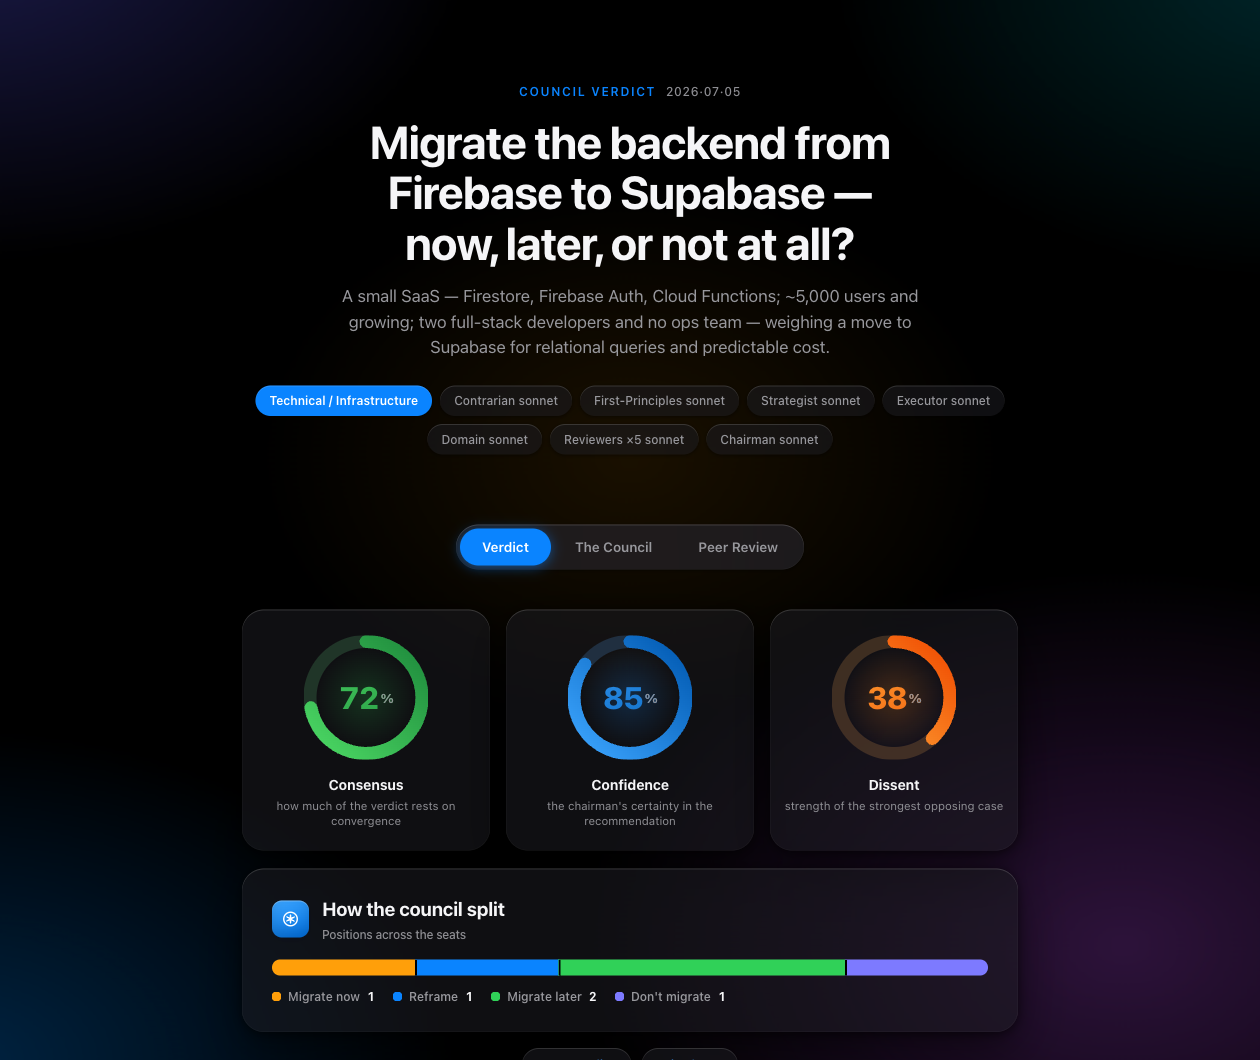
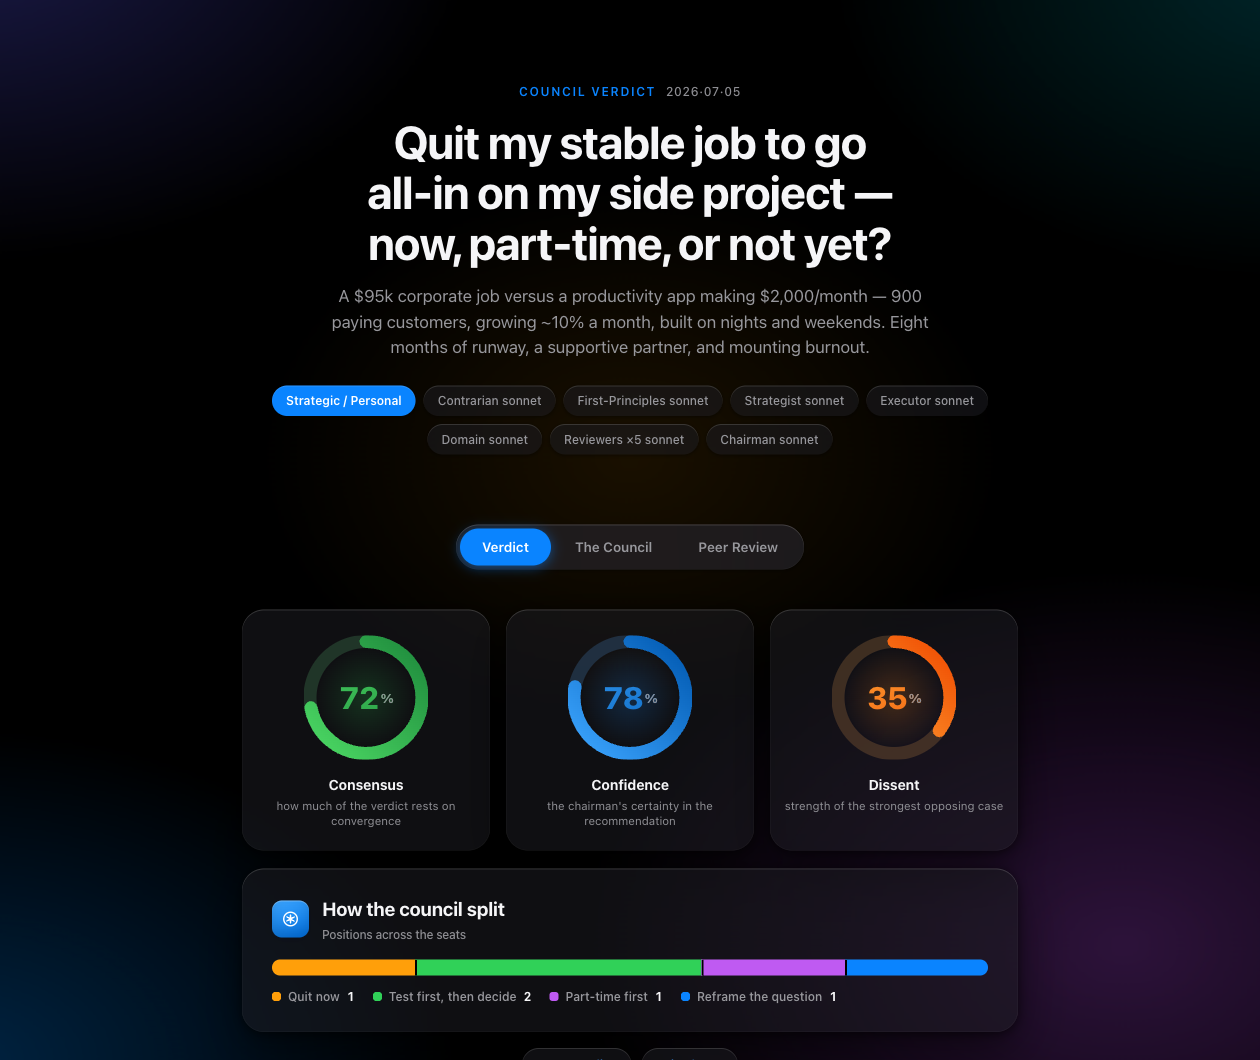
Replace example with a universally relatable case: quit-job-for-side-project
Swap the dev-niche Firebase→Supabase example for a real all-Sonnet run on
"should I quit my stable $95k job for my $2k/month side project?" —
strategic/personal decision type, exercising the Opportunity-Cost & Values
lens. This run also showcases pieces the old example never fired:
- Consult Before Acting card (partner financial stress-test, verbatim questions)
- unanimous 5/5 blind-spot flag on the boldest advice ("quit now" — most
  decisive, least grounded) while the sequenced plan won 4/5
- chairman labeling its own council's decay narrative "hypothesis, not fact"
README screenshots regenerated from the new report; example docs and README
references updated.

diff --git a/examples/quit-job-for-side-project.transcript.md b/examples/quit-job-for-side-project.transcript.md
@@ -1,0 +1,118 @@
+# LLM Council Transcript
+
+**Timestamp:** 2026-07-05 10:06
+**Decision type:** strategic / personal → Domain Specialist seated with the **Opportunity-Cost & Values** lens
+**Model lineup ("keep it light"):** every seat on `sonnet` — 5 advisors, 5 reviewers, chairman. Expert seat: not seated (pure judgment call, no specialized field-facts). Research: off.
+
+---
+
+## Original question
+
+> council this: I make $95k/year at a stable corporate job. My side project — a productivity app — makes $2,000/month net after 18 months of nights and weekends, growing ~10% month-over-month, with ~900 paying customers. I have 8 months of expenses saved; my partner has a stable income and supports the idea. I'm increasingly burned out doing both. Should I quit now, negotiate part-time, or keep grinding nights until the app replaces my salary?
+
+## Framed question (given to all advisors)
+
+> DECISION: Quit a stable job to go all-in on a side project — quit now, negotiate part-time, or keep grinding nights?
+>
+> CONTEXT: $95k/year stable corporate job (performance fine, uninspiring). Side project: productivity app, $2,000/month net, ~10% MoM growth for 5 months, ~900 paying customers via word of mouth + one viral post. Growth visibly capped by the ~10 hrs/week available (support backlog, slow shipping). 8 months of expenses saved; partner has stable income and is supportive but would cover shared costs if savings run out. No kids. Increasing burnout doing both. At current growth, salary replacement (~$8k/month) is ~14 months away.
+>
+> AT STAKE: $95k of security vs a $24k/year business; strangling a genuinely growing product; burnout in the middle; the partner's finances if it goes wrong.
+
+---
+
+## Stage 1 — Advisor responses
+
+### The Contrarian (`sonnet`)
+The math is the flaw everyone's going to skip past: "$8k/month in 14 months at current growth" assumes 10% month-over-month compounds cleanly with zero deceleration. It won't. Viral-post-driven, word-of-mouth growth curves almost always decay — you had one viral spike 5 months ago and you're extrapolating a smooth exponential off the tail of it. Nobody has ever grown 10% MoM for 14 straight months off a single unpaid channel with no CAC engine. Cut that growth assumption in half and the "keep grinding" plan is now 24+ months away, which means option (c) — "just grind a bit longer" — is the one most likely to be a trap disguised as the safe choice.
+
+Second flaw: this isn't actually a 3-option decision. You've diagnosed your own problem — growth is "visibly limited by 10 hours/week" — support backlog and slow shipping. The constraint is operational capacity, not product-market fit. Quitting solves the capacity problem. But so might just fixing the backlog (templated support responses, a part-time VA for $500/month, cutting scope). Nobody's asked "what if I bought back 5 hours/week for $500 instead of $95k/year of income risk?" That option isn't listed and it should have been tried before any of the three on the table.
+
+Third: "partner supports the idea" is doing a lot of unexamined work. Supporting the idea in a Tuesday-night conversation and supporting it in month 6 when they're covering rent solo are different things — has that actually been stress-tested with numbers, or is this optimism laundered through a partner's general goodwill?
+
+Quitting now, on unvalidated growth math, without first testing whether money can buy back the actual bottleneck, is the fatal flaw here.
+
+### The First-Principles Thinker (`sonnet`)
+The real question isn't "quit, negotiate, or grind" — it's "why does this decision require quitting a job at all?" That framing smuggles in an assumption: that the app needs a full person and the job is the only variable you can move. Neither is obviously true.
+
+Look at what's actually constrained: 10 hours/week is the bottleneck — not talent, not market, not product-market fit. You have paying customers and organic virality, which most founders never get. The scarce resource is time, and there are more ways to buy time than resigning. Could $2k/month fund a part-time contractor for support tickets, freeing your 10 hours for the growth-limiting work instead of the maintenance-limiting work? Have you actually asked for a 4-day week, or are you assuming rejection? Companies grant this more than people expect, especially for "fine" performers who aren't asking for a raise.
+
+Also interrogate the $95k vs $24k framing — it's not really $95k of security weighed against $24k of income. It's your only asset (time) allocated between a claim that pays a fixed wage regardless of effort, and a claim compounding at 10%/month with optionality to become worth vastly more. The 8-month runway number is a red herring dressed as rigor — it assumes the app's revenue stays flat if you quit, when the entire premise of quitting is that revenue accelerates.
+
+The question nobody's asked: what does "success" even mean here — lifestyle income, or building something big? That answer determines everything else, and it's missing from the brief entirely.
+
+### The Strategist (`sonnet`)
+The math everyone's about to argue over is a distraction. $2k/month vs $95k/year misses that these two numbers are moving on completely different curves — one decays without intervention, one compounds with it. That asymmetry is the whole decision.
+
+The job's $95k is flat — the same number in month 13 as month 1. The side project's $2k has been compounding at 10%/month — but that growth is a function of 10 hours/week of unattended fires, mostly word-of-mouth off one viral post. Word-of-mouth growth curves decay hard once the initial audience saturates, and support backlog left unaddressed is exactly how you kill word-of-mouth — churned customers don't refer anyone. The 14-months-to-$8k projection assumes linear continuation of a regime (viral tailwind, novelty) that's already fading. Full-time isn't just "more hours on the same trajectory" — it's the only path that converts this into a step-function: shipped feature backlog, cleared support queue, a second growth channel actually built instead of hoped for. Nights-and-weekends can maintain a curve; it can't bend one.
+
+Second-order cost of "keep grinding": burnout doesn't announce itself as burnout — it announces itself as mediocre performance reviews and a mediocre product. You lose both, slowly. The part-time negotiation is the trap that looks safest: the company treats you as flight-risk while you still don't have enough hours to unstick the real bottleneck.
+
+Given 8 months of runway and a partner backstopping the downside: quit now. Set a hard checkpoint at month 6 — if MRR isn't materially ahead of the current trajectory, that's your signal the curve was fake. The option to return to corporate at $95k barely decays in 6–12 months; the option to catch this product's current window does.
+
+### The Executor (`sonnet`)
+Don't quit. Don't negotiate part-time yet either — you don't have the ammunition for that conversation. Here's Monday morning:
+
+Option (c) as written — grinding 14 more months — is also wrong. The app is growth-limited by your 10 hours/week and you're burned out; grinding harder on the same schedule doesn't fix the bottleneck, it delays the crash. Reject the premise that the only choices are "quit" or "grind exactly as-is."
+
+The actual first move: buy time by cutting cost, not by quitting income. Over the next 2 weeks: (1) kill your support backlog — FAQ docs, canned responses, a help widget; it's probably eating half your 10 hours and it's the most delegable, mechanical part of the business; (2) price-test — a word-of-mouth product with 900 payers has room to raise prices 20–30% on new signups; (3) get the one number you don't have — churn. Growth minus churn is what tells you whether 14 months is real or fantasy.
+
+Then negotiate part-time — with numbers in hand. "I want to go 4 days" is a weak ask. "I run a business with $24k ARR growing 10%/month; I want Fridays; here's the exact scope I'll still cover" is a strong ask your manager can actually approve.
+
+Quitting now is the wrong order of operations, not necessarily the wrong ending. Do the part-time ask in the next 2–4 weeks. If they say no — that's when quit-now becomes the live option. Not before.
+
+### The Domain Specialist — Opportunity-Cost & Values (`sonnet`)
+The math first: the 14-month path to $8k/month assumes 10% MoM growth continues *at the current 10 hrs/week*. It won't — growth is already stated as capped by those hours, so option (c) is internally contradictory. You cannot "keep grinding nights" your way to salary replacement when the stated bottleneck is nights. That's not a plan, that's a hope dressed as a spreadsheet.
+
+Opportunity cost, honestly priced: he's not giving up $95k to make $24k. He's giving up $95k plus benefits plus career-ladder compounding (raises, network, résumé weight) to buy back roughly 30 hours/week of attention on an asset already showing product-market pull. That's the actual trade — money for time on a compounding asset. Whether it's a good trade depends entirely on whether 30 more hours/week plausibly moves growth meaningfully. If the bottleneck is really demand, not hours, quitting just burns runway faster on a business that was going to grow at 10% anyway.
+
+Values check: he says the job is "decent but uninspiring" and he's burned out. Notice what's absent — he hasn't said he loves the app, the customers, or the mission. The stated motivation is escape-from-boredom plus exhaustion, not pull-toward-the-work. That's a burnout decision, not a conviction decision — and burnout decisions made via "quit everything" tend to relocate the burnout, not resolve it.
+
+The partner sentence to interrogate: "supportive" and "would cover shared costs" are doing enormous unexamined work. Has he asked what her actual ceiling is — six months of covering rent, or resentment by month nine? Find out the real number now, not when the bank account forces the conversation.
+
+My read: negotiate part-time first. It's the only option that gives real data — does more time actually unlock growth, and does less job actually cure the burnout — before he spends his savings and his partner's goodwill finding out.
+
+---
+
+## Stage 2 — Peer review
+
+**Anonymization mapping (revealed):** A = Executor · B = Domain Specialist · C = Strategist · D = Contrarian · E = First-Principles.
+
+**Tally:** Strongest → A (Executor) 4 votes, D (Contrarian) 1 vote. Biggest blind spot → C (Strategist) 5 votes, unanimous.
+
+- **Reviewer 1:** Strongest A — the only response converting the decision into a sequenced, falsifiable test with a built-in trigger for when quit-now goes live. Blind spot C — invented a decay narrative to justify the most dramatic option. All missed: whether the employer even offers 4-day weeks; a sized month-9 downside scenario.
+- **Reviewer 2:** Strongest A — resolves the "what's the bottleneck" fight by noting nobody has the data yet. Blind spot C — never explains why full-time is safe against the same decay risk it describes. All missed: health insurance and self-employment tax logistics; whether more hours even fix the bottleneck task; runway treated as a fixed clock.
+- **Reviewer 3:** Strongest A — concrete two-week plan with a falsification test (churn). Blind spot C — recommends quitting on the same shaky extrapolation it debunked, and ignores whether a burned-out person survives to the month-6 checkpoint. All missed: the concrete month-7-of-8 downside path; health insurance; what actually eats the 10 hrs/week.
+- **Reviewer 4:** Strongest A — falsifiable and time-boxed where others argue a stance. Blind spot C — most decisive, least grounded; no partner stress-test, no slower-growth scenario. All missed: burnout as a hard constraint with its own timeline that may not wait for clean data.
+- **Reviewer 5:** Strongest D — attacks the load-bearing assumption and names the crispest untested alternative (the $500/month VA). Blind spot C — an unfalsifiable narrative with the asymmetric downside simply absent. All missed: what specifically the 10 hrs/week is spent on — without that breakdown, every prescription is a guess.
+
+---
+
+## Stage 3 — Chairman synthesis (`sonnet`)
+
+### Where the Council Agrees
+Every advisor rejects (c) as-is: grinding nights is logically incoherent because nights are the named bottleneck, and even the friendliest read of the growth curve is optimistic if the 10-hrs/week ceiling doesn't move. There's also convergence that the decision is under-specified — no advisor thinks "quit / part-time / grind" is a complete option set until at least one piece of missing data (churn, time breakdown, partner's real ceiling) is filled in. And nobody thinks burnout is sustainable as a fourth option — something has to give in weeks, not months.
+
+### Where the Council Clashes
+The real fight is sequencing versus boldness. The Strategist: the growth curve itself is time-limited and only quitting now bends it — corporate optionality keeps, the product's window doesn't. The Executor and Domain Specialist: that's an assertion dressed as fact — two weeks of cheap experiments would tell you whether the curve is real before you burn runway and partner goodwill. The Contrarian goes further: quitting may not even be the right axis — a $500/month VA might buy back the constrained resource without touching the $95k.
+
+**Flag:** the Strategist's decay narrative ("word-of-mouth decays," "the product's window is closing") is asserted with zero supporting data and was called out by all five reviewers as the weakest link in the council. Treat it as a hypothesis, not a fact.
+
+### Blind Spots the Council Caught
+Unanimous reviewer finding: the "quit now" recommendation rests on the shakiest evidence in the set — a dramatic move justified by an untested decay curve, with no partner stress-test, no slower-growth scenario, and no acknowledgment that a burned-out founder might not reach a clean month-6 checkpoint. Missed by all five advisors: what the 10 hrs/week actually goes to (this single fact changes which option is viable); health insurance and self-employment tax logistics; a concrete months-7–9 downside plan; and burnout treated as a variable that will politely wait for clean data. It may not.
+
+### The Recommendation
+Go with the Executor's sequencing, not the Strategist's leap. The Strategist's whole case depends on an unverified decay narrative — and you don't burn $95k of guaranteed income and a partner's goodwill on an assumption you could falsify in two weeks for free. But don't run the plan blind to burnout, the one variable the Executor under-weights: the two-week diagnostic sprint must be short and bounded, not another open-ended grind.
+
+Concretely: spend up to two weeks on the cheap, reversible moves — kill the support backlog (FAQ, canned responses, help widget), run a price test, and pull your actual churn number. Use that data to walk into a part-time negotiation with real numbers. If part-time is refused, quit-now becomes the live option — not before. And if two weeks in you're not recovering at all, that is itself a data point: the burnout clock is shorter than the diagnostic clock, and you negotiate time off or reduced hours regardless of what the business data says.
+
+### The One Thing to Do First
+This week, spend one hour finding out exactly where your 10 hours/week actually go — support tickets vs. building vs. marketing. Every other move (VA, part-time ask, quit timing) depends on which bucket is eating your time, and right now nobody — including you — actually knows.
+
+### Consult Before Acting
+Talk to your partner directly — not "does she support the idea," but the specific financial stress-test. Verbatim: **"If I quit and we're both living on your income alone starting month 3, does that change anything for you?"** · **"What's the actual dollar number or month where this stops feeling okay to you?"** · **"If I ask for part-time instead of quitting, does that change your answer?"** Her real ceiling — not her general enthusiasm — is load-bearing for every option on the table, and no advisor treated it as optional.
+
+**STATS:** consensus 72 · confidence 78 · dissent 35
+
+---
+
+*Generated by LLM Council v2 — runs on your Claude subscription. Methodology: Andrej Karpathy. This run: all seats on `sonnet` ("keep it light").*

diff --git a/examples/README.md b/examples/README.md
@@ -2,21 +2,22 @@
 
 A **real, unedited** run of the skill — nothing here was hand-written after the fact.
 
-**Question councilled:** should a small SaaS (Firebase: Firestore + Auth + Cloud Functions; ~5k users; two devs, no ops team) migrate to Supabase (Postgres + RLS + Edge Functions) — now, later, or not at all?
+**Question councilled:** *"Should I quit my stable $95k job to go all-in on my side project?"* — a productivity app making $2,000/month (900 paying customers, ~10% monthly growth) built on nights and weekends; 8 months of runway; a supportive partner; mounting burnout. Quit now, negotiate part-time, or keep grinding?
 
-**Run config:** every seat on `sonnet` (the `keep it light` inline override), decision type auto-classified as **technical/infra**, so the Domain Specialist was seated with the **Reliability & Security** lens.
+**Run config:** every seat on `sonnet` (the `keep it light` override); decision auto-classified as **strategic/personal**, so the Domain Specialist was seated with the **Opportunity-Cost & Values** lens. Expert seat: not seated (pure judgment call). Research: off.
 
 ## Files
 
 | File | What it is |
 |---|---|
-| [`firebase-to-supabase-migration.transcript.md`](firebase-to-supabase-migration.transcript.md) | The full transcript: framed question, all 5 advisor responses, the anonymized peer-review round (with the A–E mapping revealed), and the chairman's synthesis. |
-| [`firebase-to-supabase-migration.report.html`](firebase-to-supabase-migration.report.html) | The visual report the skill opens automatically. Download and open it in a browser — GitHub won't render HTML inline. |
+| [`quit-job-for-side-project.transcript.md`](quit-job-for-side-project.transcript.md) | The full transcript: framed question, all 5 advisor responses, the anonymized peer-review round (with the A–E mapping revealed), and the chairman's synthesis. |
+| [`quit-job-for-side-project.report.html`](quit-job-for-side-project.report.html) | The interactive glass report the skill opens automatically — ring gauges, council-split chart, spectrum, blind-vote tally. Download and open in a browser (GitHub won't render HTML inline). |
 
 ## Worth noticing (what the process adds over "just ask once")
 
-- **Five genuinely different verdicts** — Don't / Reframe the question / Migrate now / Migrate later-with-a-trigger / Migrate later-after-a-rehearsal — not five rephrasings of one answer.
-- **The best insight came from the peer-review round, not any single advisor:** none of the five originally raised the "stay in one system" option (Cloud SQL / Firebase Data Connect) or weighed *Supabase's own* lock-in. The anonymized cross-review surfaced it.
-- **The chairman overruled the raw vote**, siding with the minority "reframe" position because its reasoning was strongest — and **flagged a single-source factual claim** (the Firebase→Supabase auth hash compatibility bug) as *verify, don't trust*.
+- **Five genuinely different verdicts:** quit now · reframe the question entirely · run a two-week diagnostic sprint first · negotiate part-time first · don't quit, try a $500/month fix. Not five rephrasings of one answer.
+- **The blind review reversed the drama.** The boldest, most quotable advice ("quit now — the window is closing") was flagged **5/5** as the council's weakest reasoning — "the most decisive and the least grounded." The unglamorous sequenced plan won 4/5. You'd never get that correction from a single answer.
+- **The chairman flagged its own council:** the "window is closing" decay narrative is labeled *hypothesis, not fact* — asserted with zero data, to be verified against real churn numbers before it drives anything.
+- **Consult Before Acting fired** — the verdict ends by sending the user to a human: their partner, with three verbatim stress-test questions about the real financial ceiling. A council that knows what isn't its call to make.
 
-> Note: the sample decision is deliberately generic. This is a demonstration of the *process*, not infrastructure advice for your project.
+> The sample decision is illustrative. This demonstrates the *process*, not career advice.

diff --git a/README.md b/README.md
@@ -62,7 +62,8 @@ Trigger it with your question:
 - `council this` · `run the council` · `pressure-test this` · `stress-test this` · `war room this` · `debate this`
 
 ```
-council this: should we migrate this service off Firebase onto Supabase, or stay put? Context is in CLAUDE.md.
+council this: should I quit my stable job to go all-in on my side project
+($2k/month and growing), negotiate part-time, or keep grinding nights?
 ```
 
 You get a visual `council-report-[timestamp].html` (opens automatically) and a full `council-transcript-[timestamp].md`. See a **real sample run** in [`examples/`](examples/).
@@ -114,7 +115,7 @@ Every run is logged to `council-journal.json` and rendered into `council-journal
 Then the accountability loop:
 
 ```
-council revisit: the Firebase migration decision
+council revisit: the quit-my-job decision
 ```
 
 You tell the council what actually happened; a single sub-agent scores the original recommendation — **hit / miss / mixed** — names which advisor's position aged best, and extracts one transferable lesson. The journal tracks the hit rate over time. After ten decisions you know something nobody else can tell you: *whether your council is actually right, and which lens to trust on which kind of call.* A council that can't admit misses is a horoscope — this one keeps score.
@@ -143,7 +144,7 @@ Every run fills the shipped [`report-template.html`](report-template.html) — d
 - Tinted feature cards: blue-gradient **first step** with an oversized numeral, red **Consult Before Acting**, amber verify-flags; `[verified]`/`[recalled]` as green/neutral underline citations
 - **Automatic dark mode** (true-black, iOS dark palette), print/PDF stylesheet, copy-verdict button, staggered load animations, zero external assets — works offline forever
 
-*(Preview: open [`examples/firebase-to-supabase-migration.report.html`](examples/firebase-to-supabase-migration.report.html) in a browser.)*
+*(Preview: open [`examples/quit-job-for-side-project.report.html`](examples/quit-job-for-side-project.report.html) in a browser.)*
 
 ## Choose the model for each council member
 